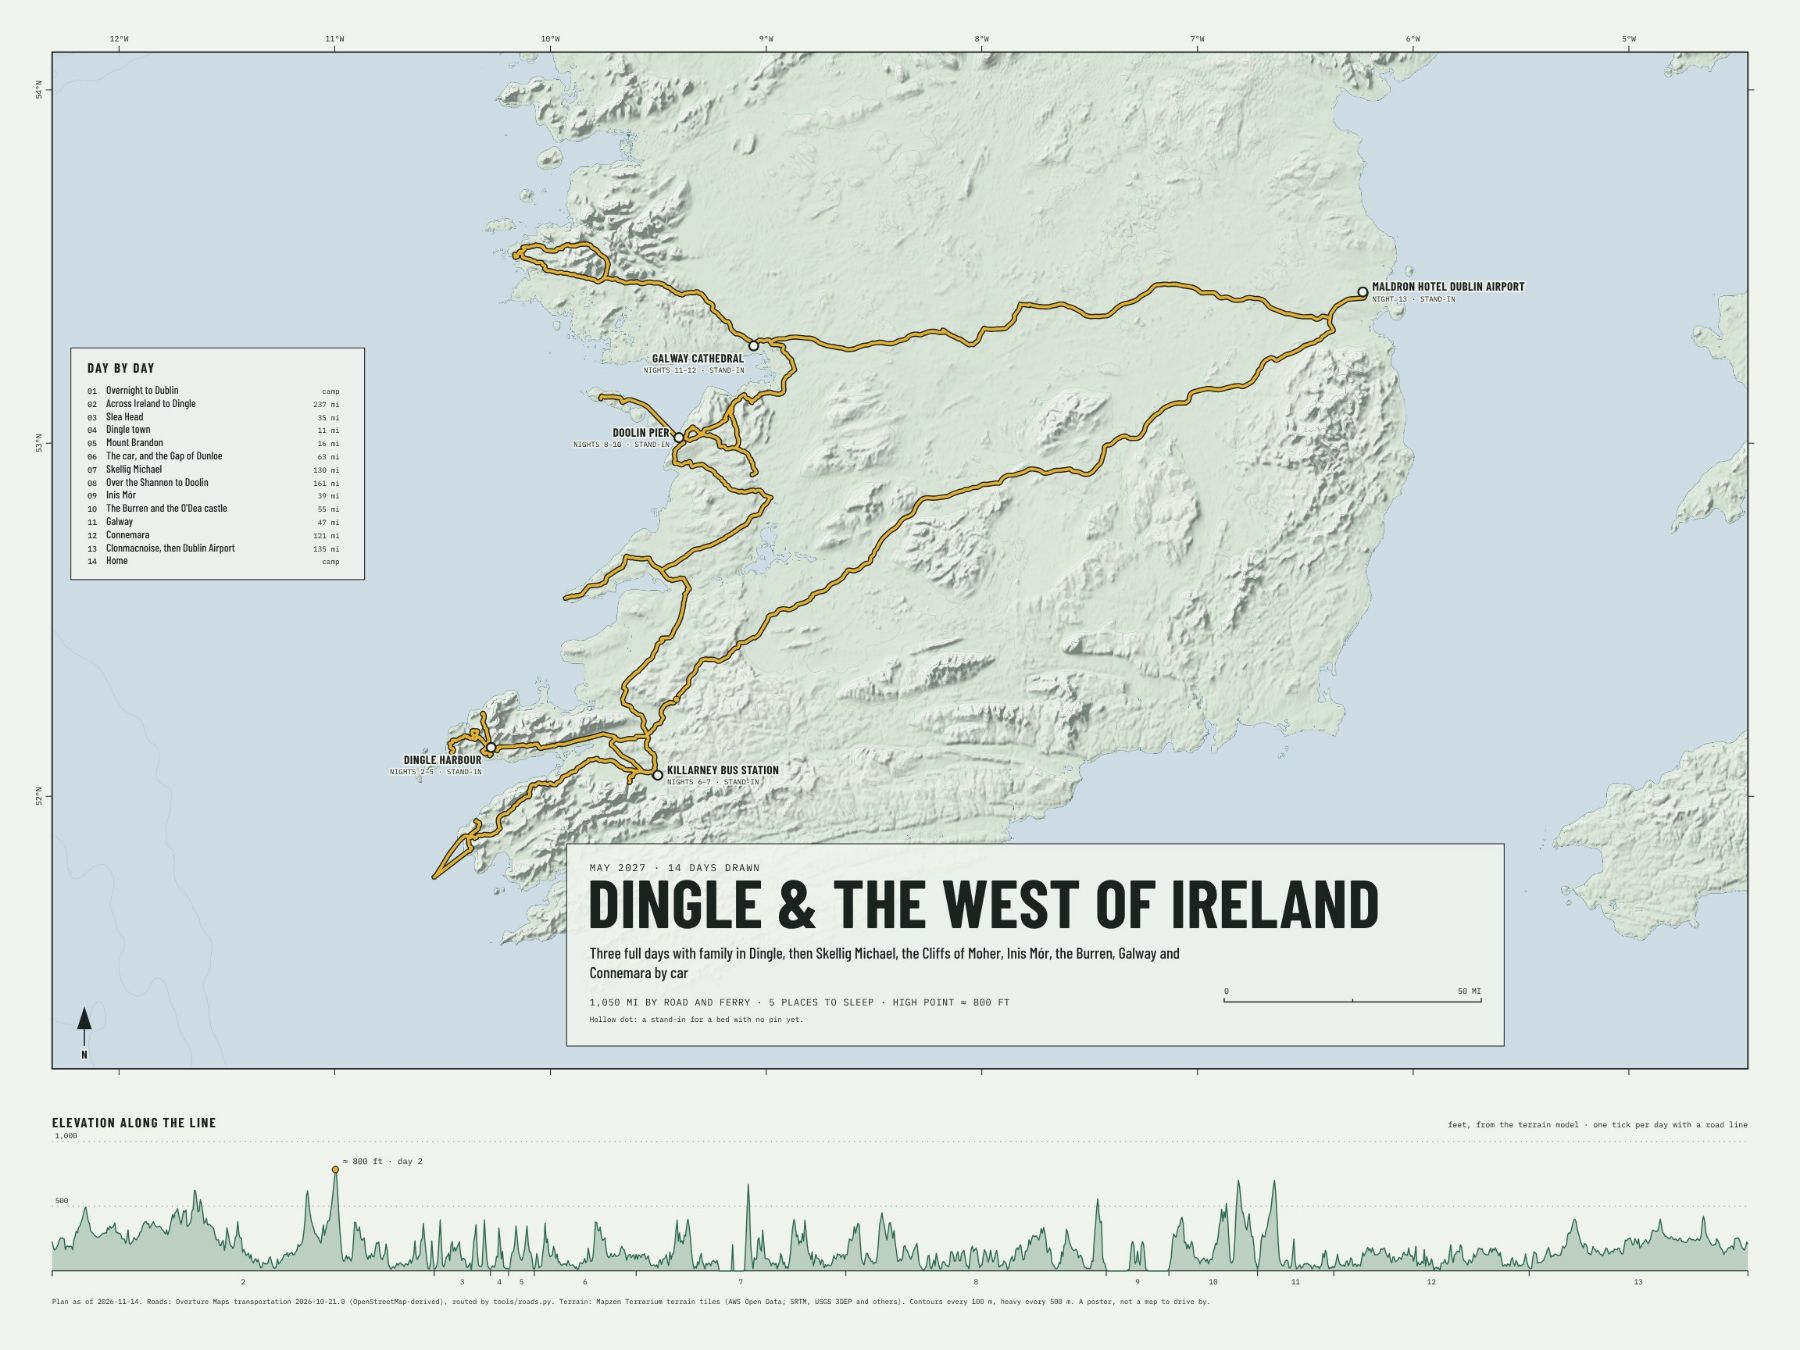
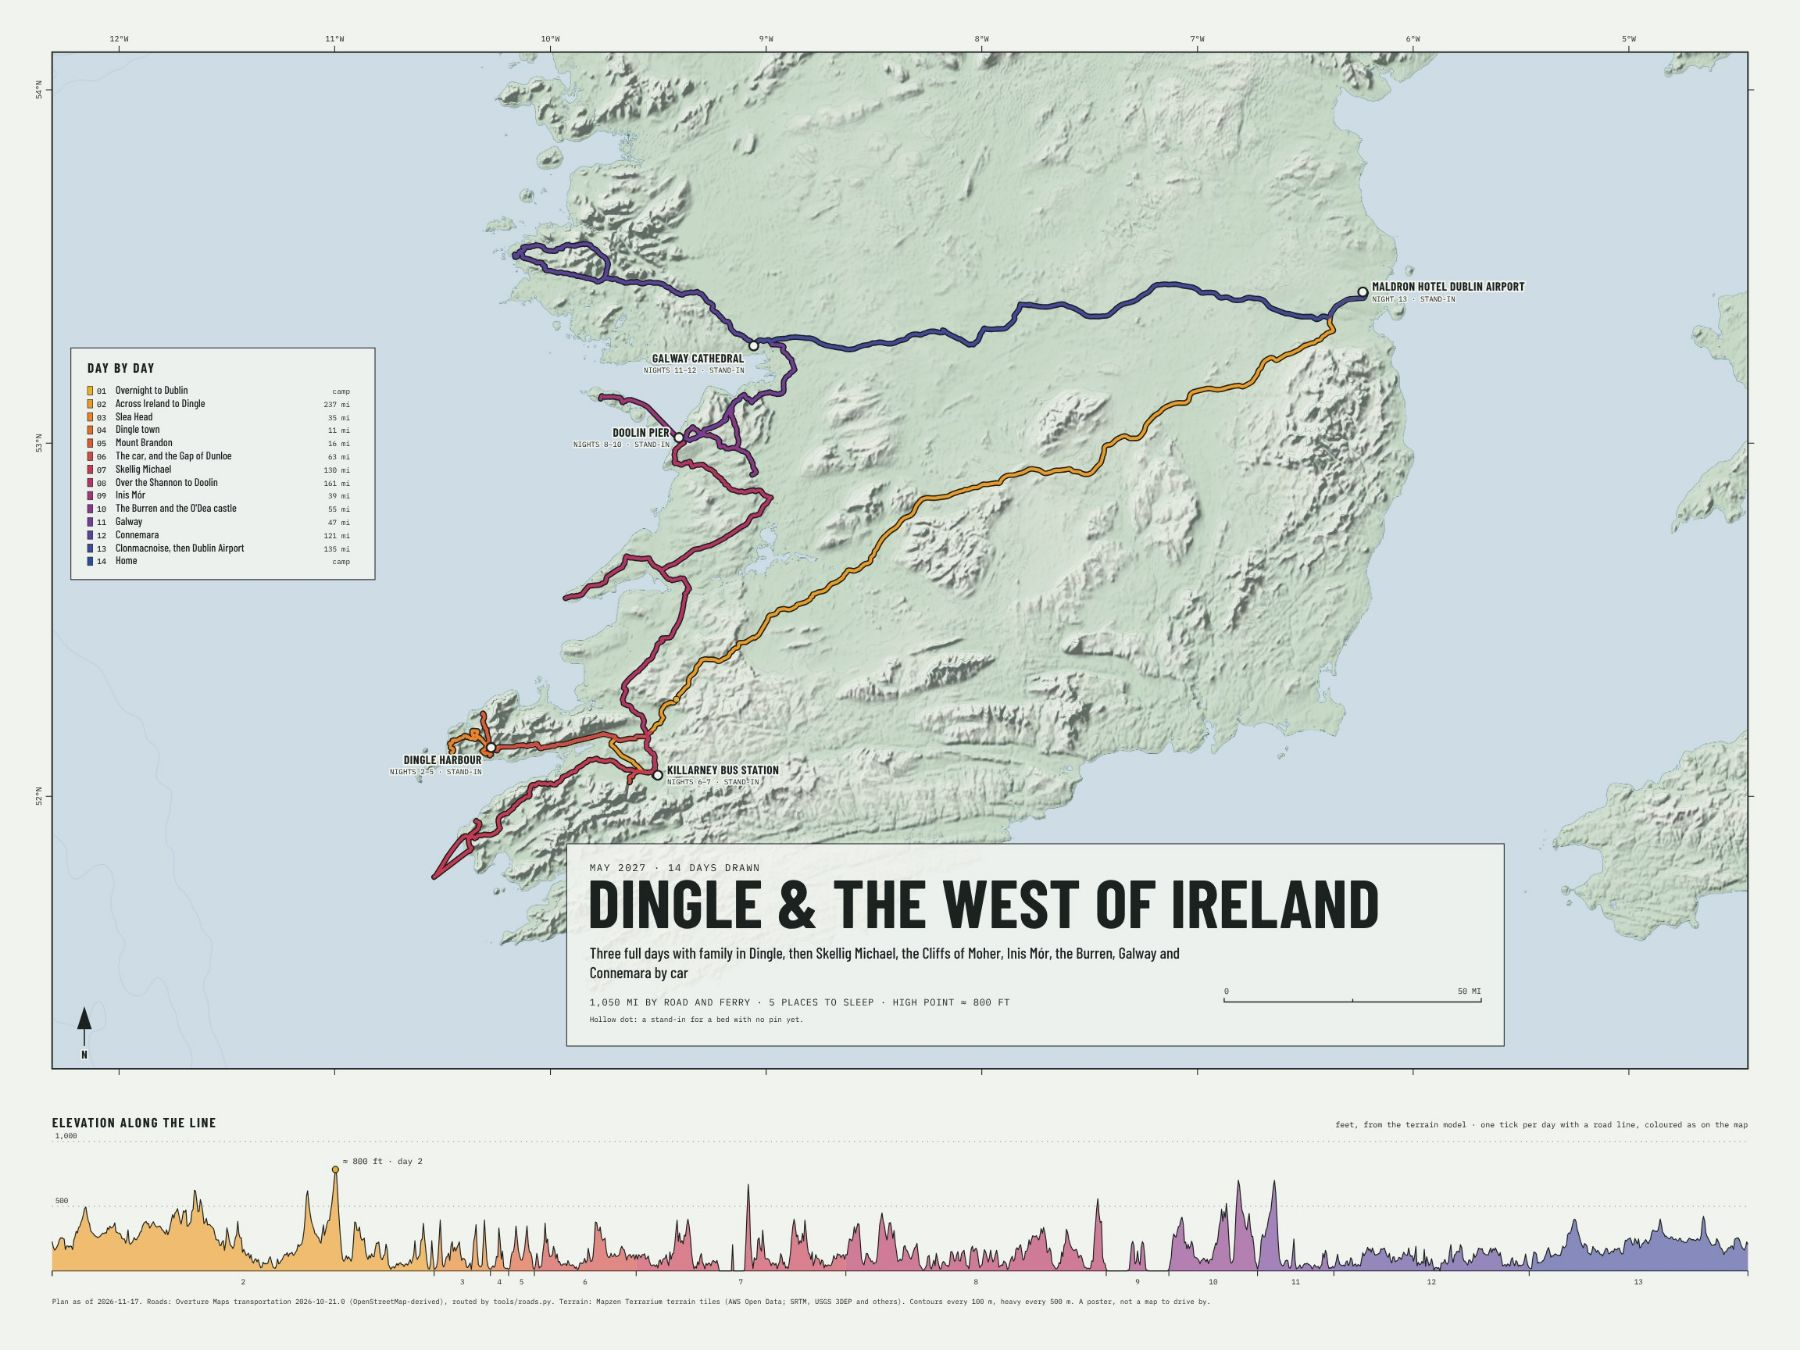
Posters read in time: line, day list and elevation strip coloured by day; transit days off the sheet with a locator; panels no longer overlap; deeper relief
Claude-Session: https://claude.ai/code/session_01EqwgMPjTz1Lt9hrkLU2qUF

diff --git a/CLAUDE.md b/CLAUDE.md
@@ -132,7 +132,7 @@ node tools/ics.mjs     # site/booking-alarms.ics: a calendar alarm for every win
 node tools/pack.mjs <slug> --pdf   # site/packs/: offline PDF + GPX of verified pins and road lines, for Drive and Organic Maps
 node tools/geojson.mjs # site/maps/: GeoJSON per trip for Kepler/Felt (build runs it); --todo lists unplaced places
 node tools/kml.mjs <slug>     # site/maps/<slug>-lines.kml + -pins.kml: Google My Maps, two layers (build runs it)
-node tools/poster.mjs <slug> [--days 2-27]  # site/posters/<slug>.pdf: a 24x18 in print poster of the route (after build); --days frames it on part of the trip. Also writes share/posters/ (web copy, thumb, route fingerprint): commit those, and the Trips tab and trip page show it, flagged when the route changes. Refuses a trip with no road line
+node tools/poster.mjs <slug> [--days 2-27]  # site/posters/<slug>.pdf: a 24x18 in print poster of the route (after build); the line, day list and elevation strip are coloured by day; long transit days at the ends run off the sheet into a locator (--frame all keeps them on); --days frames it on part of the trip. Also writes share/posters/ (web copy, thumb, route fingerprint): commit those, and the Trips tab and trip page show it, flagged when the route changes. Refuses a trip with no road line
 node tools/kepler.mjs <slug>  # site/maps/<slug>.kepler.json: a ready-made Kepler map, drag onto kepler.gl/demo (build runs it)
 node tools/mymaps.mjs [<slug> <file.kml>]  # is each trip's My Map (`mymaps:` in trip.md) still current? Weekly in CI; needs google.com, so in a session pass a Firecrawl-scraped file
 python3 tools/roads.py <slug> # trips/<slug>/routes/: each day along real roads, from Overture data (after build; see docs/MAPS.md)
